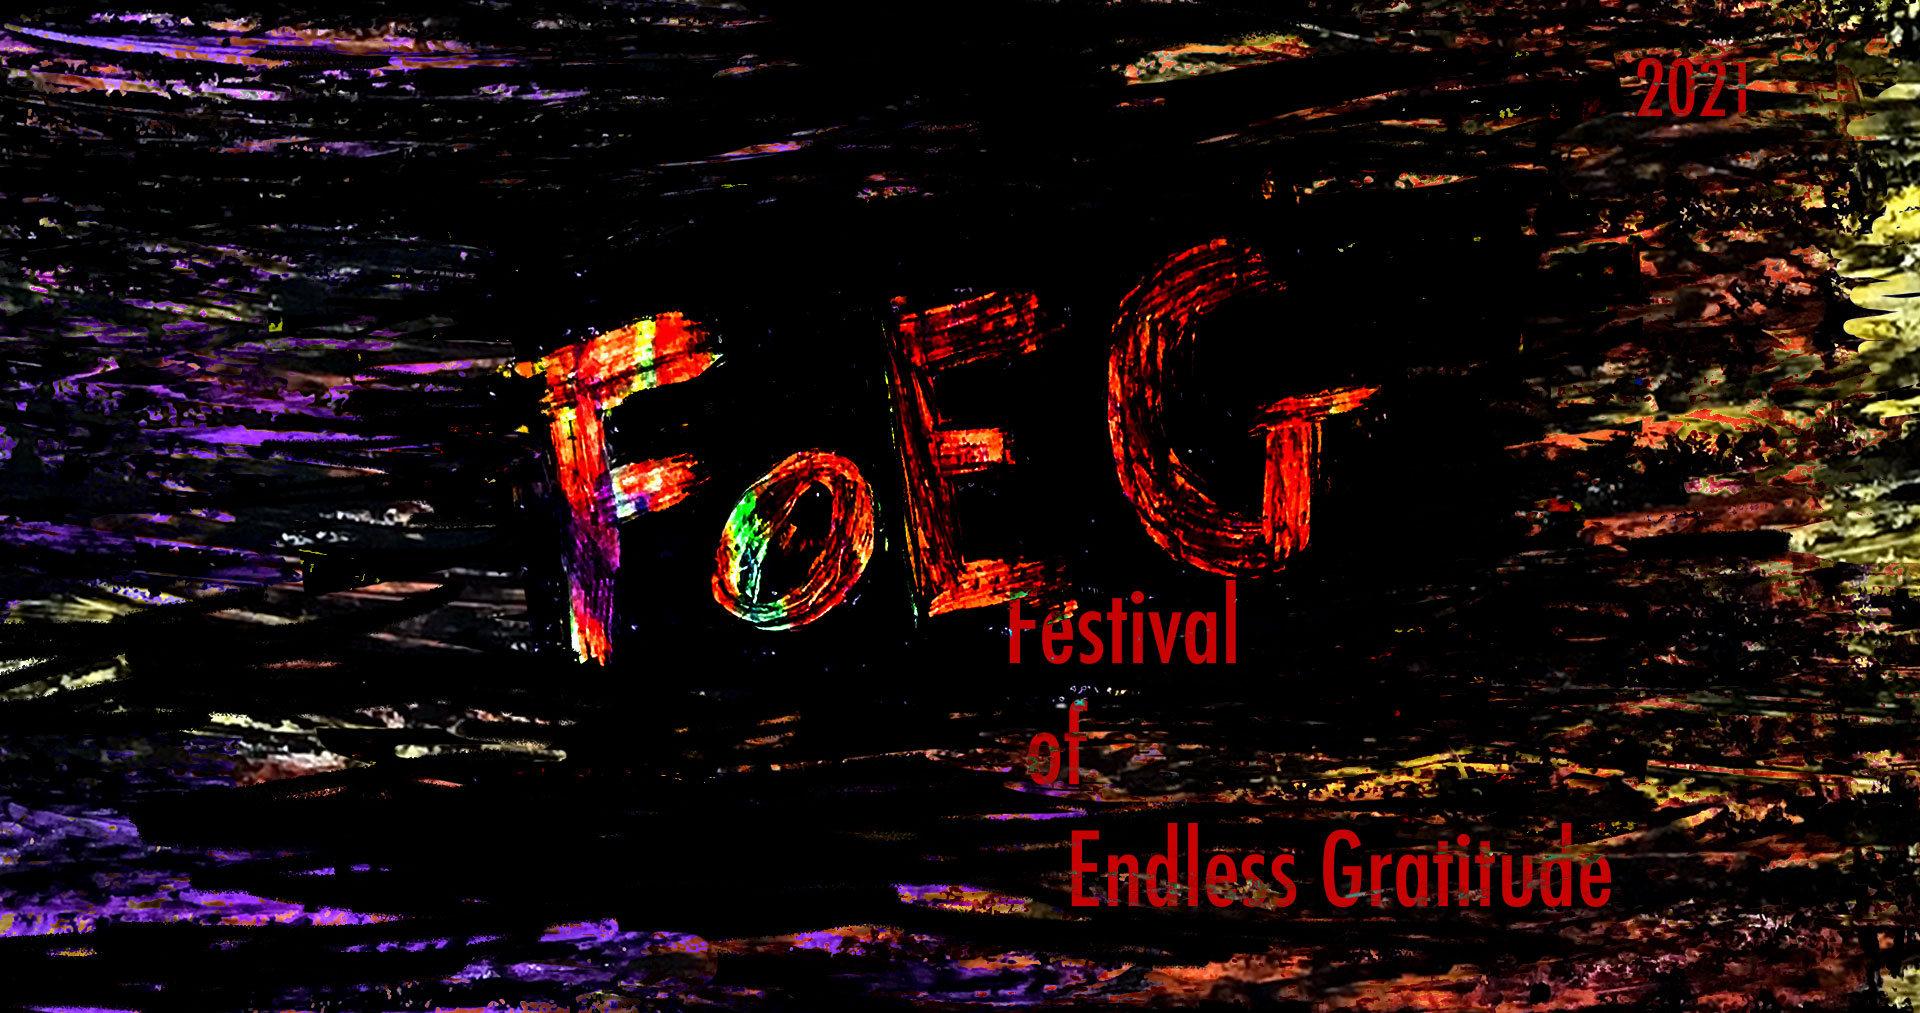
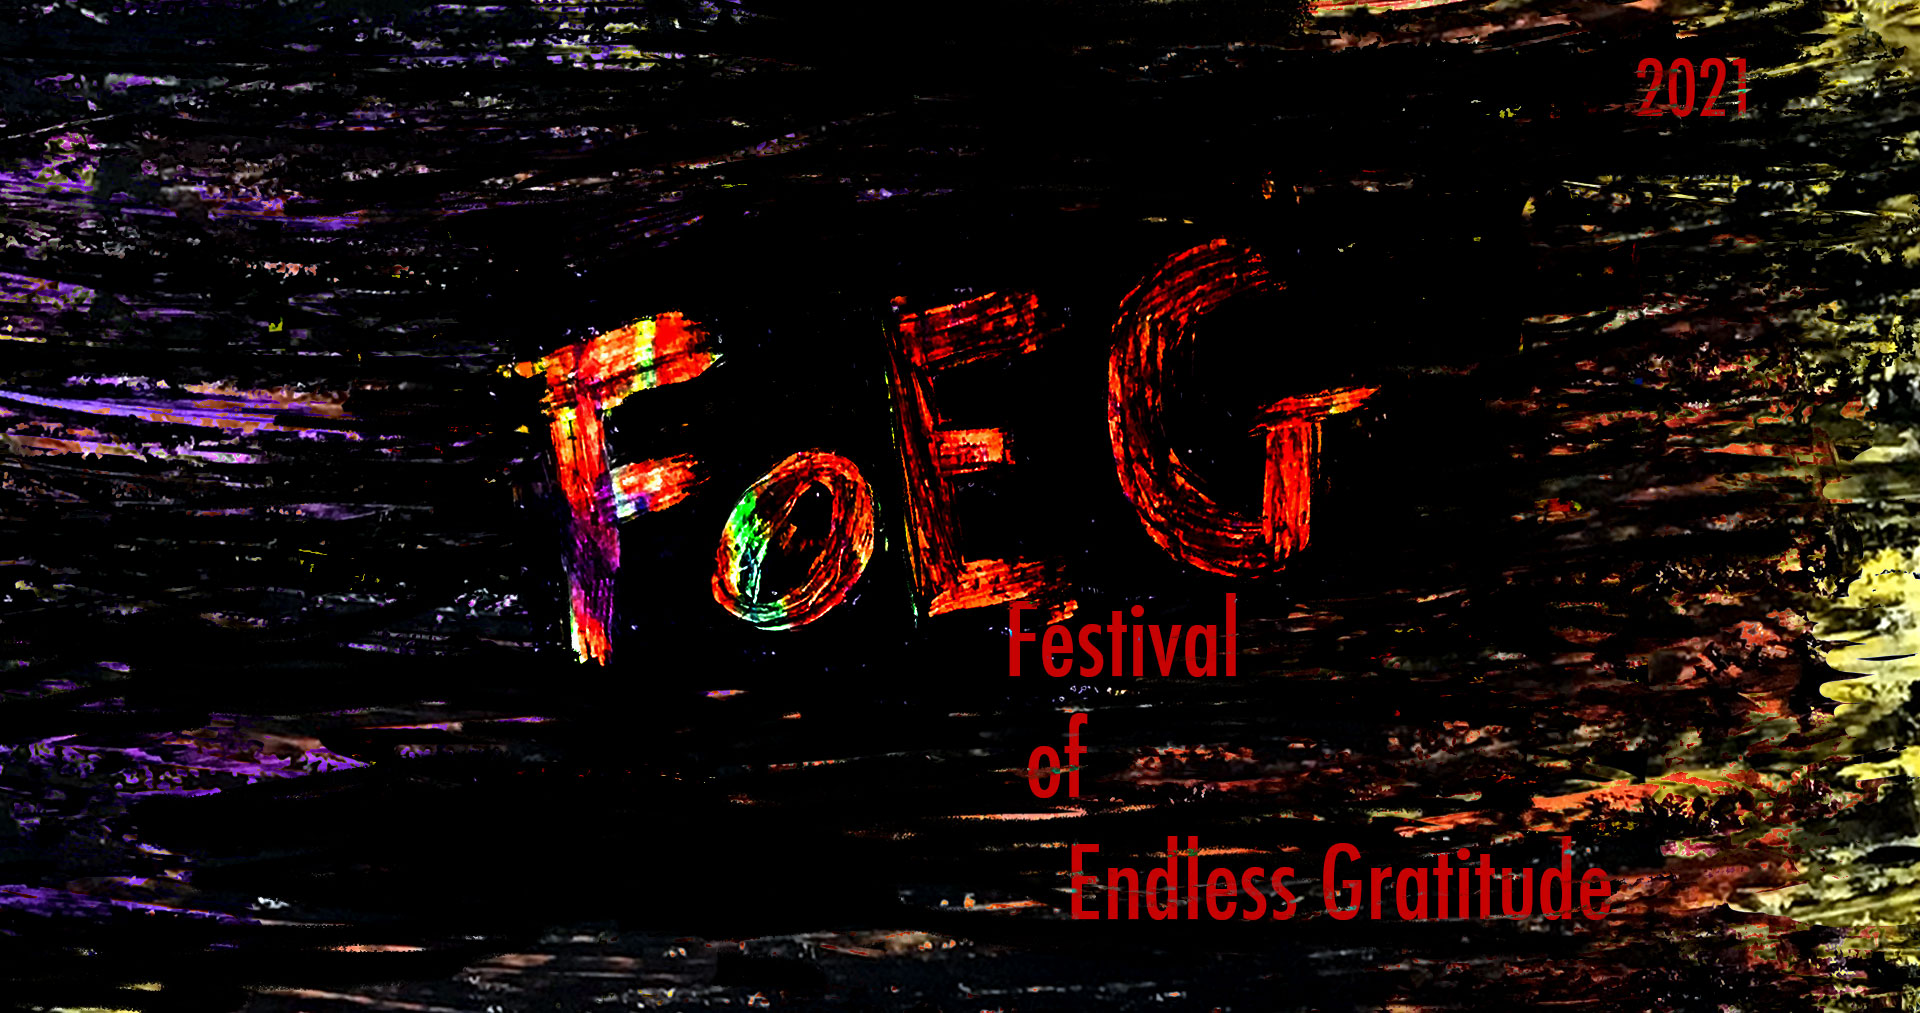
yet another background change nad font styling

diff --git a/src/assets/css/style.scss b/src/assets/css/style.scss
@@ -14,18 +14,33 @@
     url(/assets/fonts/Futura-CondensedExtraBold.woff) format("woff");
 }
 
+@font-face {
+  font-family: futurastd;
+  font-style: normal;
+  font-weight: normal;
+  src: local("FuturaLT"), url(/assets/fonts/FuturaLT.woff) format("woff");
+}
+
+@font-face {
+  font-family: futurastd;
+  font-style: normal;
+  font-weight: 700;
+  src: local("FuturaLTBold"),
+    url(/assets/fonts/FuturaLT-Bold.woff) format("woff");
+}
+
 @import "variables";
 @import "header";
 
 html {
-  background: url(/assets/img/bg.jpg) no-repeat center center fixed;
+  background: url(/assets/img/bg.jpg) no-repeat top center fixed;
   background-size: cover;
   -webkit-tap-highlight-color: transparent;
   font-size: 62.5%;
 }
 
 html.landing {
-  background: url(/assets/img/bg-front.jpg) no-repeat center center fixed;
+  background: url(/assets/img/bg-front.jpg) no-repeat top center fixed;
   background-size: cover;
 }
 
@@ -36,12 +51,21 @@ body {
   margin-right: 0;
   font-family: futura;
   color: $text;
-  font-size: 2rem;
+}
+
+p {
+  font-family: futurastd;
+  font-size: 1.7rem;
+}
+
+strong {
+  font-weight: normal;
 }
 
 h2 {
-  font-size: 2.5rem;
+  font-size: 2.3rem;
   font-weight: normal;
+  text-transform: uppercase;
 }
 
 main {
@@ -69,6 +93,7 @@ main {
   text-align: center;
   h2 {
     margin-top: 3.5rem;
+    margin-bottom: 0;
   }
 }
 
@@ -90,8 +115,8 @@ main #right-column {
 }
 
 .past {
-  padding-left: 20vw;
-  padding-right: 20vw;
+  padding-left: 17vw;
+  padding-right: 17vw;
   grid-template-areas: "left left";
   td:nth-child(odd) {
     padding-right: 30px;
@@ -121,6 +146,8 @@ a:hover {
   display: flex;
   justify-content: space-evenly;
   align-items: center;
+  width: 50vw;
+  margin-left: 25vw;
 }
 .partnerlogoer a img {
   max-width: 10vw;
@@ -149,14 +176,28 @@ ul {
   min-height: 60vh;
   border-style: none none solid none;
   border-color: $title_color_alt;
+  &:nth-last-of-type(1) {
+    border-style: none;
+  }
   h3 {
+    font-size: 2.6rem;
     position: absolute;
     font-weight: normal;
-    top: 370px;
-    left: 25px;
+    top: 331px;
+    left: 20px;
     transform-origin: left;
     transform: rotate(270deg);
     color: $title_color_alt;
+  }
+  &:nth-of-type(2) {
+    h3 {
+      top: 304px;
+    }
+  }
+  &:nth-of-type(3) {
+    h3 {
+      top: 408px;
+    }
   }
   li {
     position: relative;
@@ -180,6 +221,7 @@ ul {
   display: block;
   text-transform: uppercase;
   color: white;
+  font-size: 2.3rem;
 }
 
 iframe {
@@ -195,21 +237,16 @@ iframe {
   position: sticky;
   align-self: start;
   top: 30px;
+  h2 {
+    text-transform: uppercase;
+  }
 }
 
 #stickyspace {
   height: 50px;
 }
 
-#footer {
-  padding-left: 20vw;
-  padding-right: 20vw;
-}
-
 @media only screen and (max-width: 1855px) {
-  body {
-    font-size: 1.6rem;
-  }
   main {
     margin-left: 60px;
     margin-right: 60px;
@@ -265,8 +302,8 @@ iframe {
       fixed;
     background-size: cover;
   }
-  body {
-    font-size: 1.4rem;
+  p {
+    font-size: 1.5rem;
   }
   .main,
   .info,
@@ -288,7 +325,7 @@ iframe {
     h3 {
       position: initial;
       transform: none;
-      font-size: 3rem;
+      font-size: 3.5rem;
     }
     ul {
       padding-left: 0px;

diff --git a/src/_sass/_header.scss b/src/_sass/_header.scss
@@ -55,11 +55,11 @@ a.menu-item-link {
     padding-right: 20px;
   }
   a.menu-item-link {
-    font-size: 3rem;
+    font-size: 4rem;
   }
   #header {
     h1 {
-      font-size: 4rem;
+      font-size: 5.5rem;
     }
   }
 }

diff --git a/src/artists/elik copy 7.md b/src/artists/elik copy 7.md
@@ -1,0 +1,12 @@
+---
+title: ELIK - Svitlana Nianio/Raphael Rogiński
+layout: artists.liquid
+is_draft: false
+categories:
+  - 2021_03_Mayhem
+data:
+  img: /assets/img/nianio-roginski.jpg
+  country: UA/PL
+---
+
+Elik sees the musical marriage between ukrainian experimental singer songwriter Svitlana Nianio and polish guitar maverick Raphael Rogiński. Nianio has been active since the late 80s, both in groups like Cukor Bela Smert and solo with various collaborators. Her music draws on aspects of modern composition as well as traditional and medieval music, with the aura of her voice and simplicity of her compositions at the center. Nianio's music saw a major international resurgence in interest during the 2010s, leading to a return to public performing and followed by new music and new collaborations. One of these projects is the duet Elik with Raphael Rogiński.

diff --git a/src/artists/elik copy 8.md b/src/artists/elik copy 8.md
@@ -1,0 +1,12 @@
+---
+title: ELIK - Svitlana Nianio/Raphael Rogiński
+layout: artists.liquid
+is_draft: false
+categories:
+  - 2021_03_Mayhem
+data:
+  img: /assets/img/nianio-roginski.jpg
+  country: UA/PL
+---
+
+Elik sees the musical marriage between ukrainian experimental singer songwriter Svitlana Nianio and polish guitar maverick Raphael Rogiński. Nianio has been active since the late 80s, both in groups like Cukor Bela Smert and solo with various collaborators. Her music draws on aspects of modern composition as well as traditional and medieval music, with the aura of her voice and simplicity of her compositions at the center. Nianio's music saw a major international resurgence in interest during the 2010s, leading to a return to public performing and followed by new music and new collaborations. One of these projects is the duet Elik with Raphael Rogiński.

diff --git a/src/artists/elik copy 9.md b/src/artists/elik copy 9.md
@@ -1,0 +1,12 @@
+---
+title: ELIK - Svitlana Nianio/Raphael Rogiński
+layout: artists.liquid
+is_draft: false
+categories:
+  - 2021_03_Mayhem
+data:
+  img: /assets/img/nianio-roginski.jpg
+  country: UA/PL
+---
+
+Elik sees the musical marriage between ukrainian experimental singer songwriter Svitlana Nianio and polish guitar maverick Raphael Rogiński. Nianio has been active since the late 80s, both in groups like Cukor Bela Smert and solo with various collaborators. Her music draws on aspects of modern composition as well as traditional and medieval music, with the aura of her voice and simplicity of her compositions at the center. Nianio's music saw a major international resurgence in interest during the 2010s, leading to a return to public performing and followed by new music and new collaborations. One of these projects is the duet Elik with Raphael Rogiński.
